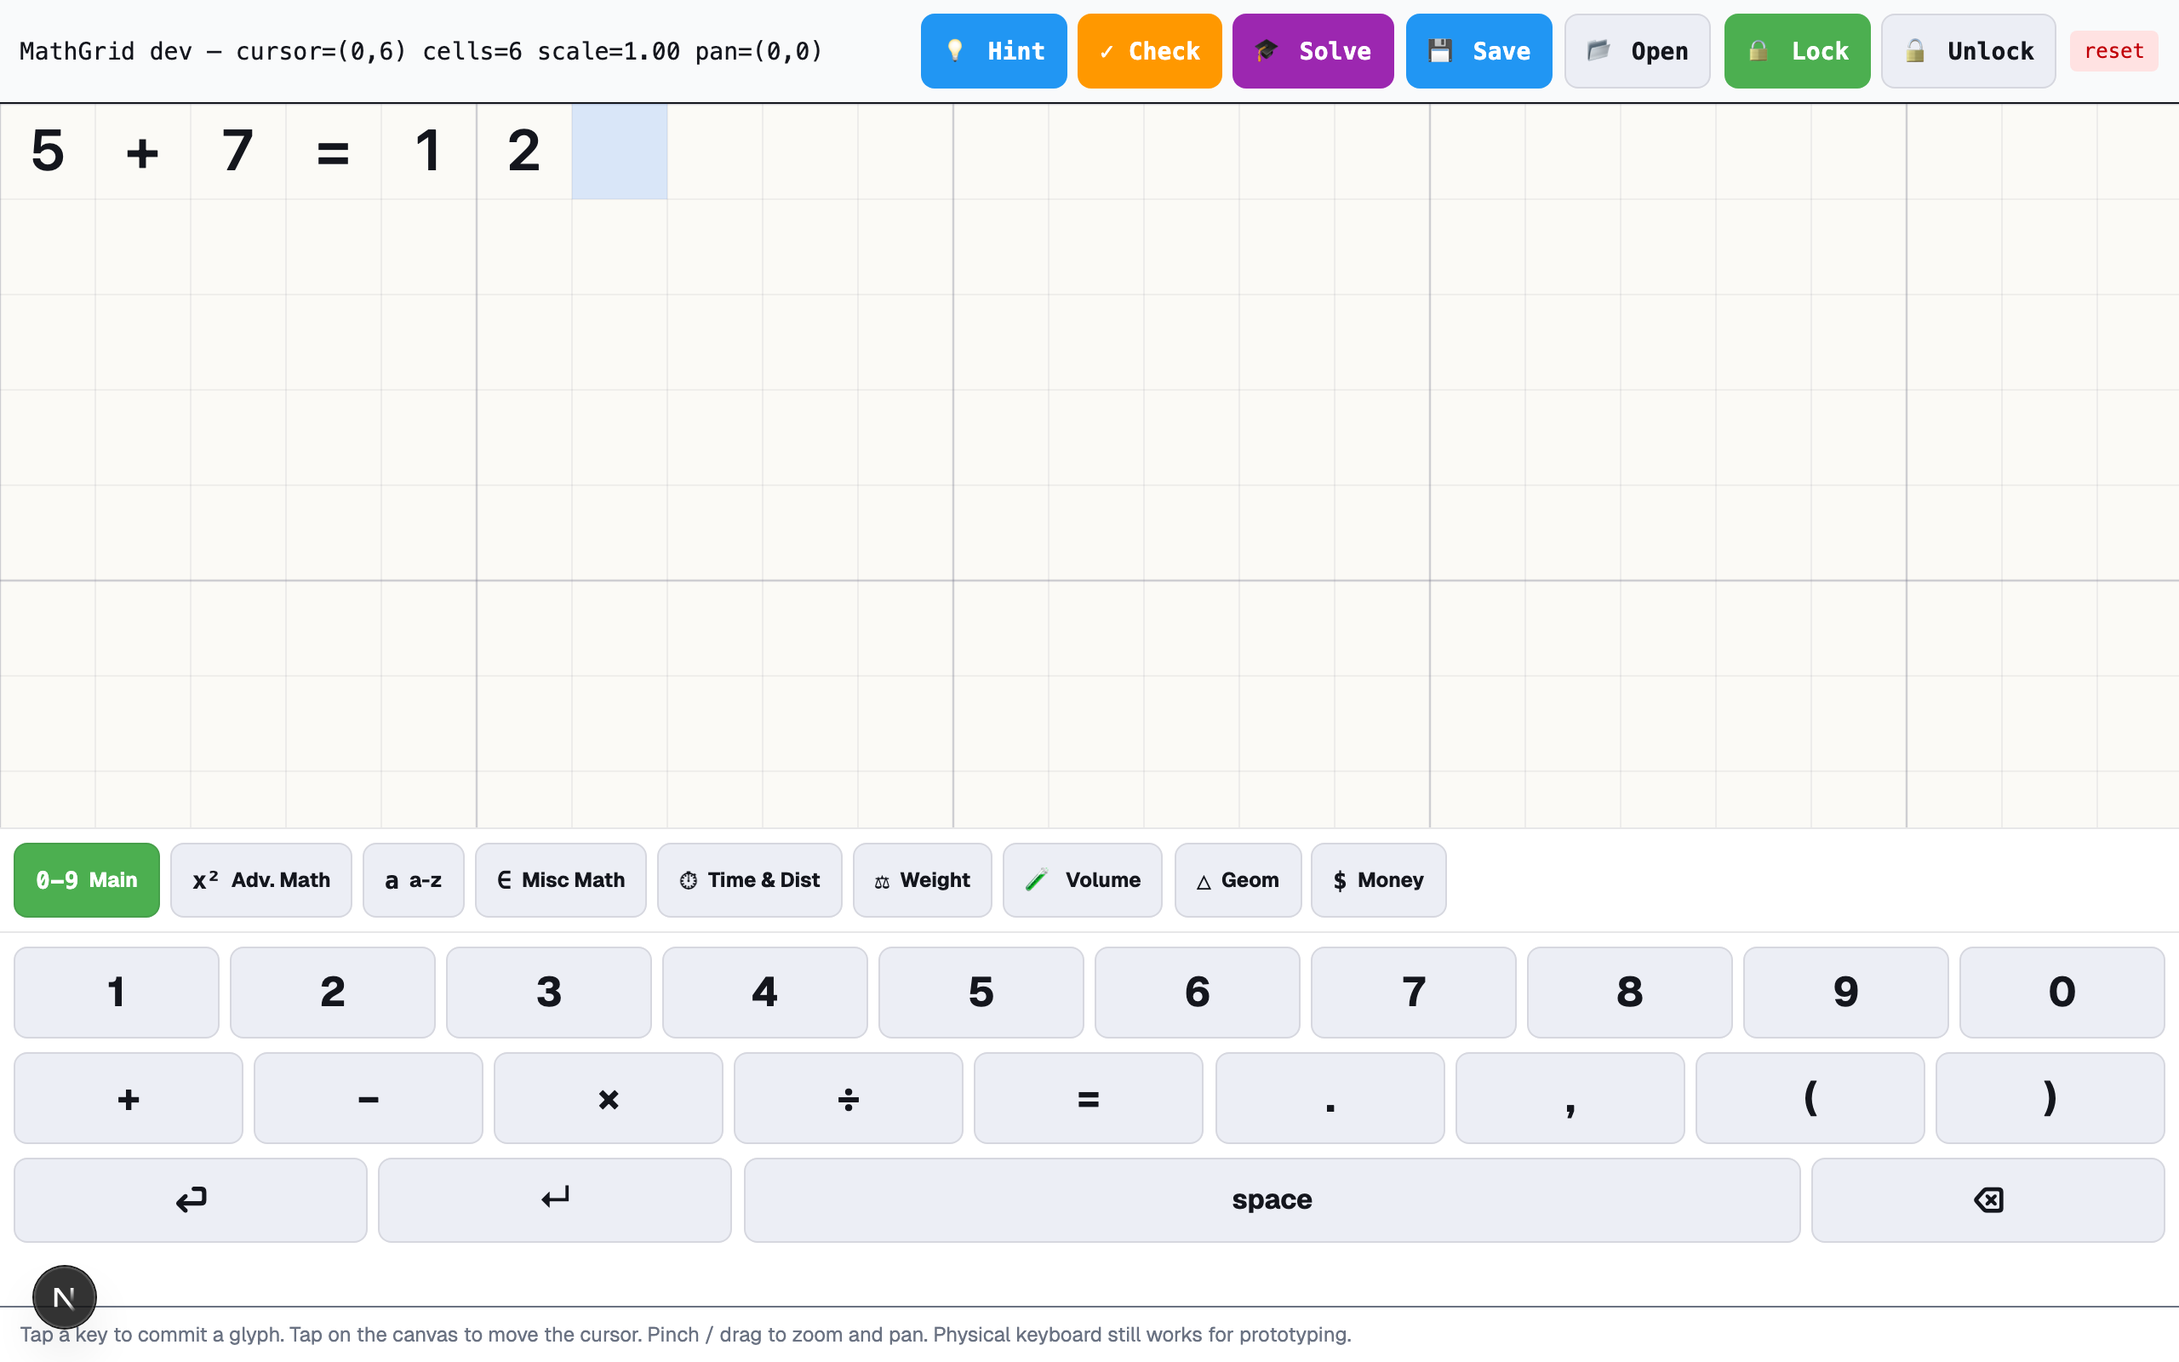
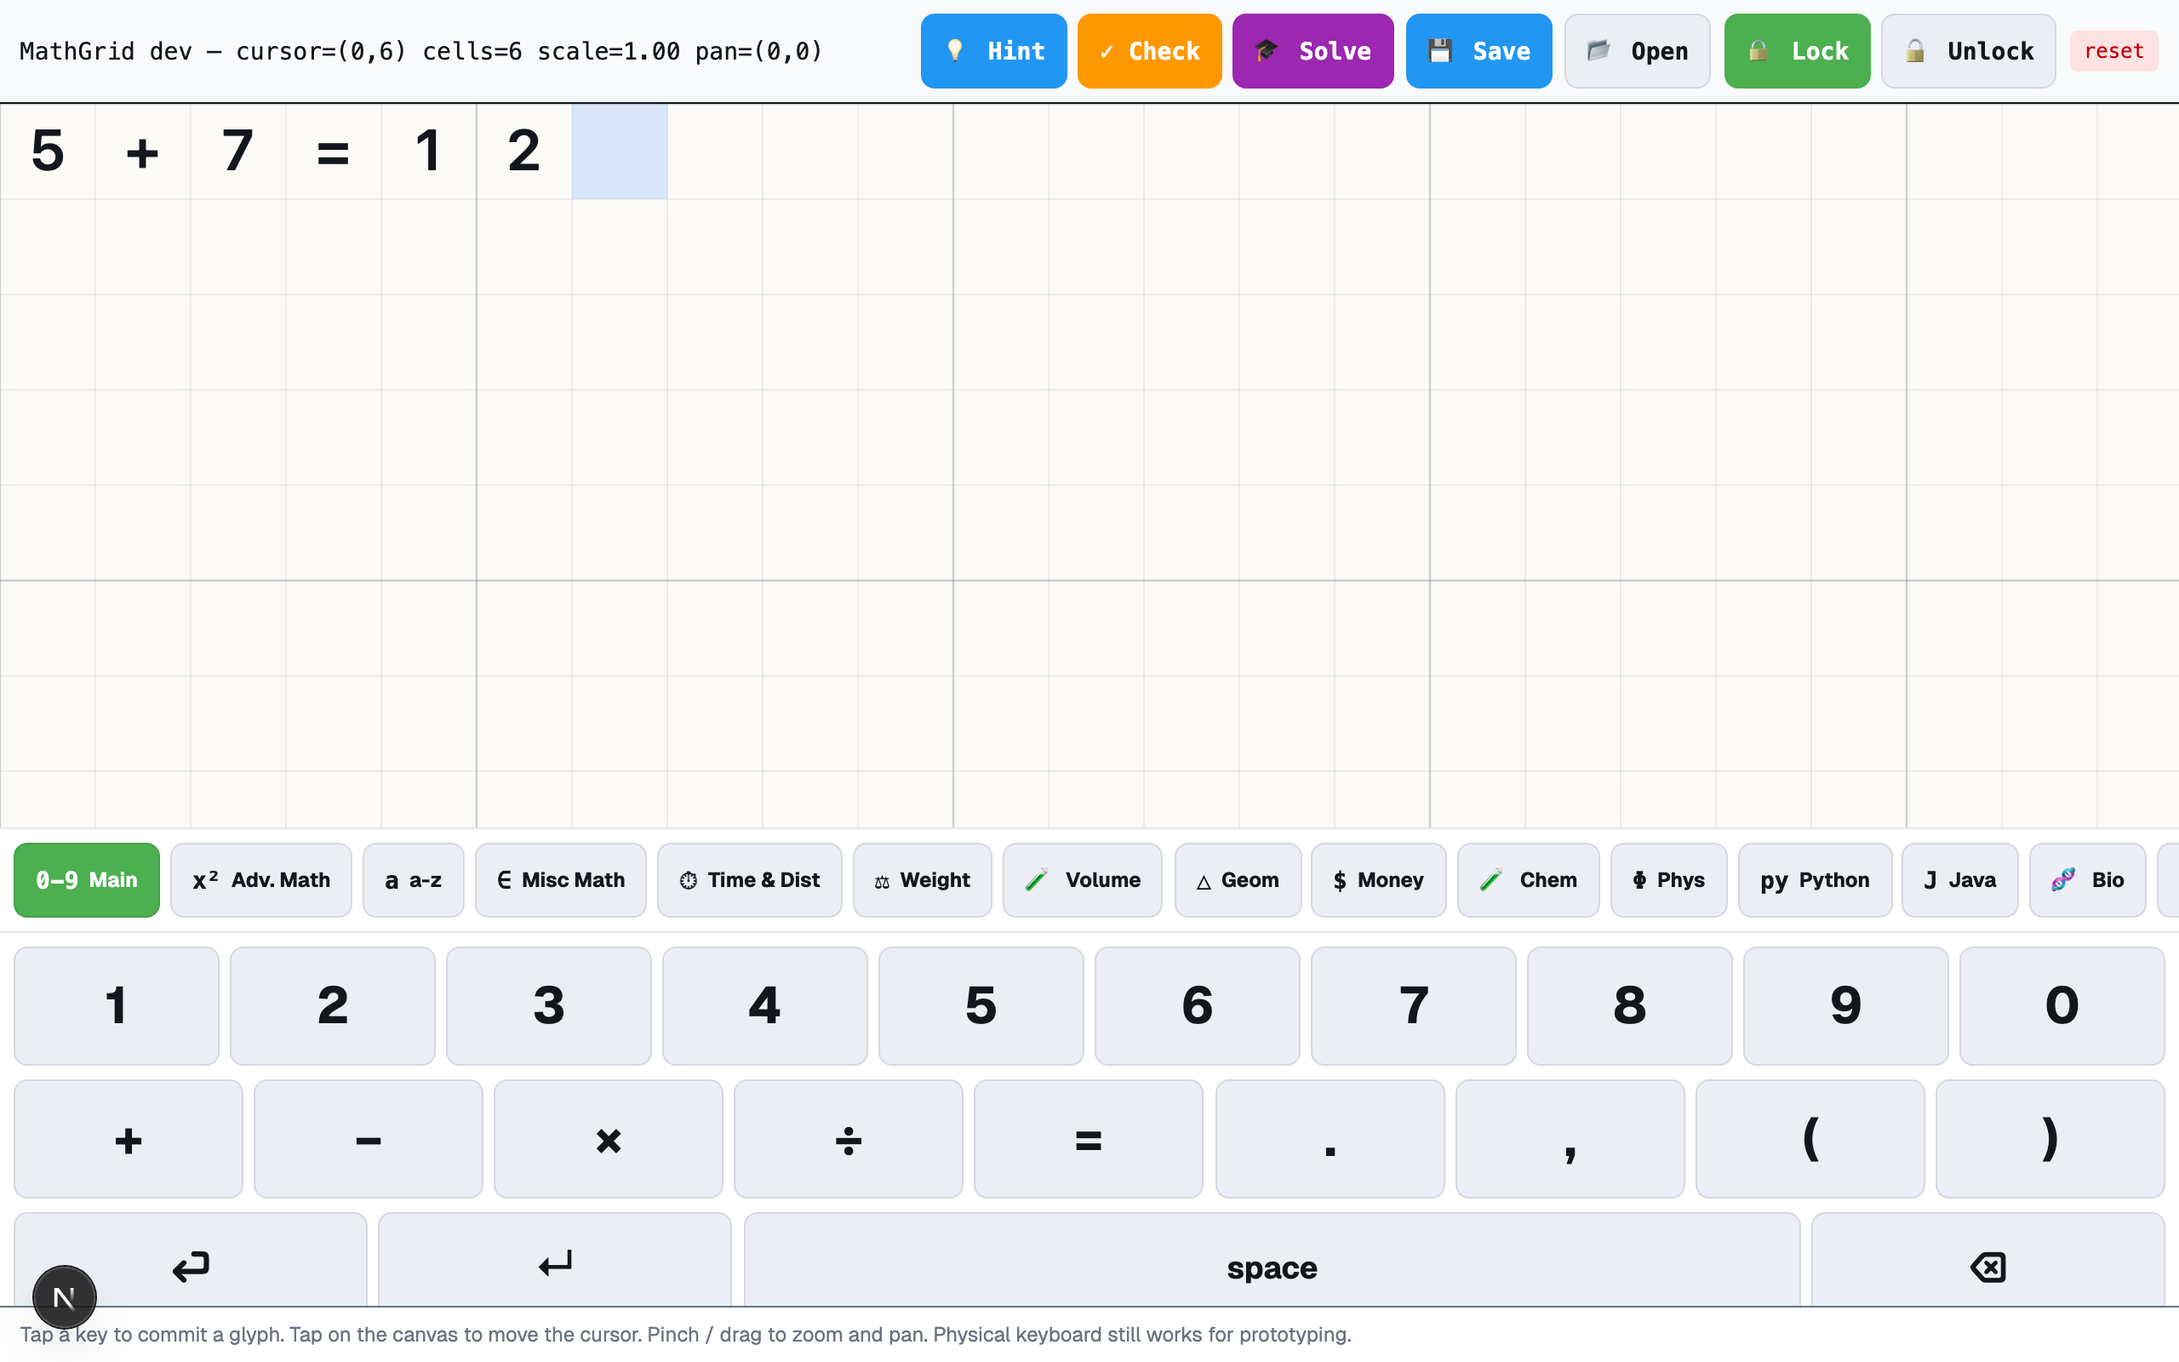
release: v0.9.0 — full high-school curriculum + locale-aware history
Bundles Phases 6 / 7 / 8 + the locale + region work into a single
release. 19 keyboard tabs, 11 tutor domains (33 prompt templates),
230+ sub-national history regions across 23 countries, plus the
tutor hardening + grid-text fixes shipped along the way.

- README — Math module section rewritten to document the full
  curriculum + locale + region layering, with 12 new screenshots
  (Chemistry, Physics, Biology, Statistics, Music, Earth Science,
  Java, Python, History en / US-TX / ro, Language Arts).
- CHANGELOG — full 0.9.0 entry covering Phases 6-8, the regional
  history layer, and the bug fixes that landed alongside (tutor
  hang, multi-char glyph overflow, EN prediction leak, AAC chrome
  in math mode, toolbar trim, bigger keys).
- package.json bumped 0.8.0 → 0.9.0.
- scripts/capture-math-docs.mjs extended with 12 new captures.

All tests retained per user request: 142/142 math e2e + 2172
vitest pass / 0 fail; typecheck clean.

diff --git a/README.md b/README.md
@@ -22,8 +22,8 @@ Tap PECS-style picture tiles to build sentences. The app reads them aloud in you
 ### ⌨ Type, predict, speak
 Built-in keyboard with word prediction. Smart suggestions learn from how the child communicates over time.
 
-### 🧮 Math panel for school
-Graph-paper canvas where every glyph occupies its own cell — digits, operators, fractions, long-division houses, square roots, geometry symbols. Type with the on-screen math keyboard or use the AI tutor for hints, answer checks, or step-by-step walkthroughs. Save your work; come back to it later. [See the math module →](#math-module-cell-grid-canvas)
+### 📚 Full high-school curriculum on a cell-grid canvas
+**Math + Chemistry + Physics + Biology + Statistics + Programming (Python/Java) + Music + Earth Science + History + Language Arts** — all on the same graph-paper canvas, each with a domain-aware AI tutor. History is locale-aware: a child in Romania sees Stephen the Great + 1989 Revolution, in Texas sees the Alamo + JFK, in Catalonia sees Crown of Aragon + 2017 Referendum. **230+ sub-national regions across 23 countries.** [See the math module →](#math-module-cell-grid-canvas)
 
 ### 🗓 Visual schedule
 Picture-based routines with rewards. Reduces transition anxiety for children with autism.
@@ -60,20 +60,53 @@ When a caregiver fixes a suggestion the model got wrong (e.g. "no, the word is *
 
 Math in AAC has historically meant either typing LaTeX — impossible for non-readers — or drawing on a freeform whiteboard that no AI can interpret. PrismAAC takes a third path: a **cell-grid model** where every glyph occupies one snap-aligned cell. The child types on a soft keyboard, the cursor advances predictively (column-add carry rules, fraction numerator → denominator, long-division quotient, exponent), and the on-screen layout is automatically structured enough for an AI tutor to read back.
 
+The same canvas hosts **19 subject keyboards** covering the full high-school program: math + sciences + programming + arts + humanities. Each tab routes the AI tutor through a domain-specific prompt template (33 templates total) so the model doesn't apply algebraic reasoning to a Punnett square or mistake a music dynamic for a programming literal.
+
 ### Canvas + main keyboard
 ![Cell-grid canvas with 5 + 7 = 12 typed across cells](docs/screenshots/math-canvas-typed.png)
 
 The HUD shows live cursor position, cell count, and viewport state. Each digit/operator lands in its own cell — the cursor (highlighted blue) automatically moves to the next slot. Pinch-zoom and one-finger pan work on the canvas; the keyboard region is a fixed-height shell below.
 
-### Nine keyboard categories
+### 19 keyboard categories
+Tap a chip to swap the row below. Categories:
+
+**Math (9 keyboards)** — Main (digits + operators), Adv. Math (π √ exponents + 5 decoration tools: fraction box, long-division house, root bar, summation line, fraction bar), a–z, Misc Math (set theory + logic), Time & Dist, Weight, Volume, Geom, Money.
+
+**Sciences (4)** — Chemistry (24 elements + reaction arrows + charges + subscripts + phase markers), Physics (full Greek + 16 SI units + ∫/∂/∇/∑/∏ + constants), Biology (DNA/RNA + genetics + 8 taxonomy ranks + 12 organelles), Statistics (μ σ x̄ + 12 ops + distributions).
+
+**Programming (2)** — Python (24 ops/brackets + 26 keywords) and Java (24 ops + 26 keywords). Code commits one character per cell so it lays out naturally on the monospace grid.
+
+**Arts + Humanities (4)** — Music (3 clefs + 6 notes + 5 rests + 5 accidentals + 8 dynamics), Earth Science (weather + plates + 10 planets + AU/ly/pc/Mya/Gya), History (locale + region aware), Language Arts (12 POS tags + 6 sentence types + punctuation + citation styles).
+
 ![Advanced math keyboard with fraction-bar, long-division, root, summation tools](docs/screenshots/math-keyboard-adv.png)
 
-Tap a chip to swap the row below. Categories: **Main** (digits + operators), **Adv. Math** (inequalities, π, √, exponents, plus 5 decoration tools — fraction box, long-division house, root bar, summation line, fraction bar), **a–z** (letters), **Misc Math** (set theory, logic), **Time & Dist**, **Weight**, **Volume**, **Geom**, **Money**.
-
-### AI tutor — Hint / Check / Solve
+### AI tutor — Hint / Check / Solve, domain-aware
 ![AI tutor overlay showing a mocked hint above the canvas](docs/screenshots/math-tutor-hint.png)
 
-Three modes: 💡 **Hint** (gentle next-step nudge, never solves), ✓ **Check** (validates the child's answer, celebrates if correct), 🎓 **Solve** (full step-by-step walkthrough, max 4 steps). The expression is serialised row-major and sent to `askAI`, which routes through Synalux (paid models) or falls back to local Ollama for offline. Streamed responses render in a floating overlay; typing more cells auto-collapses the overlay so stale advice doesn't block the child.
+Three modes: 💡 **Hint** (gentle next-step nudge, never solves), ✓ **Check** (validates the child's answer, celebrates if correct), 🎓 **Solve** (full step-by-step walkthrough, max 4 steps). The active tab tells the tutor what subject the child is on — chemistry, Python, biology, statistics, history (with locale + region!) — so the prompt is specific enough that the model doesn't confuse domains. 11 domains × 3 modes = 33 prompt templates. The expression is serialised row-major and sent to `askAI`, which routes through Synalux. Hard 15 s timeout in the UI plus a Retry button so the overlay never gets stuck on "Thinking…".
+
+### Sciences — Chemistry · Physics · Biology · Statistics
+![Chemistry keyboard with H₂O typed across cells](docs/screenshots/math-keyboard-chemistry.png)
+![Biology keyboard with A T G nucleotides typed](docs/screenshots/math-keyboard-biology.png)
+
+### Programming — Python + Java
+![Java keyboard with `private String` typed character-per-cell](docs/screenshots/math-keyboard-java.png)
+
+### Music notation
+![Music keyboard with treble clef + quarter + eighth notes typed](docs/screenshots/math-keyboard-music.png)
+
+### History — locale-aware + region-aware
+History is more nuanced than a single global event list — every curriculum is national first, then regional. PrismAAC layers three tiers:
+
+1. **Universal** events taught in every curriculum (476 fall of Rome, 1914 WWI, 1939 WWII, 1969 moon landing).
+2. **National** events selected by `language` (en → Norman Conquest + Magna Carta + US Independence; ro → Stephen the Great + 1989 Revolution; hi → Mauryan + Mughal + 1947; ja → Heian + Edo + Meiji; zh → Tang/Ming/Qing + 1949). 19 supported languages.
+3. **Sub-national** events selected by `historyRegion` (US-TX → Alamo + JFK; CA-QC → Plains of Abraham + Quiet Revolution; UK-SCT → Bannockburn + Acts of Union; ES-CT → Crown of Aragon + 1714 + 2017 Referendum; IN-MH → Shivaji coronation; DE-BY → Wittelsbach). **230+ regions across 23 countries** including all 50 US states, 13 Canadian provinces/territories, all 4 UK nations, Ireland (Republic + 4 historical provinces), all 16 German Länder, all 17 Spanish autonomous communities, all 20 Italian regions, plus AU, FR, MX, BR, IN, CN, RU, BE, CH, NL, AR, ZA, KR, PK, NZ, PL.
+
+The tutor prompt carries the locale + region so an ambiguous date like 1836 in `US-TX` resolves to the Alamo (not Alabama statehood); 1759 in `CA-QC` anchors to the Plains of Abraham; 1714 in `ES-CT` to the fall of Barcelona.
+
+![History keyboard in en locale (no region) — universal + national tiers](docs/screenshots/math-keyboard-history-en.png)
+![History keyboard with US-TX region — Alamo, Texas annexation, JFK appear on top of national + universal](docs/screenshots/math-keyboard-history-us-tx.png)
+![History keyboard in ro locale — Romanian curriculum surfaces Stephen the Great + 1989 Revolution](docs/screenshots/math-keyboard-history-ro.png)
 
 ### Save / Open with portal sync
 ![Saved docs overlay showing one entry and a Sync button](docs/screenshots/math-docs-overlay.png)

diff --git a/CHANGELOG.md b/CHANGELOG.md
@@ -1,5 +1,127 @@
 # PrismAAC Changelog
 
+## [0.9.0] - 2026-05-07 — Full high-school curriculum + locale-aware history (Phases 6 → 8)
+
+The math module is now a full high-school program: **19 keyboard tabs**
+covering math + sciences + programming + arts + humanities, with a
+domain-aware AI tutor (33 prompt templates) that knows what subject
+the child is on. History is locale + region aware down to the state /
+province / Land / autonomous-community level.
+
+### Phase 6 — universal-engine subjects
+- **Chemistry** — 24 element symbols, reaction arrows (→ ⇌ ↑ ↓), charges
+  (⁺ ⁻ ²⁺ ²⁻), subscripts (₂ ₃ ₄), Δ, pH, mol, phase markers.
+- **Physics** — full Greek alphabet (lower + upper), 16 SI units,
+  ∫ ∂ ∇ ∑ ∏ + dot/cross products, vectors, constants (c, h, ℏ, G).
+- **Programming — Python + Java** as separate tabs sharing one
+  component. 24 ops/brackets per language; Python keywords (def,
+  class, if, else, elif, for, while, return, import, from, as, in,
+  is, not, and, or, True, False, None, lambda, with, try, except,
+  finally, print, len, range, self) and Java keywords (public,
+  private, protected, class, void, int, String, boolean, if, else,
+  for, while, return, new, this, null, true, false, import, static,
+  final, package, try, catch, throws, extends, implements, interface).
+  Code commits one character per cell so it lays out naturally on
+  the monospace grid (fixes the visual collision when long keywords
+  stuffed into a single 56 px slot).
+- **Domain-aware tutor** — 5 → 9 domains, each with Hint / Check /
+  Solve prompt templates that prepend a domain framing so the model
+  doesn't confuse subjects.
+
+### Phase 7 — full sciences + arts coverage
+- **Biology** — DNA/RNA bases (A T G C U), codon arrows, mRNA/tRNA/
+  rRNA, genetics shorthand (AA / Aa / aa, F1 / F2, ♂ ♀, × cross),
+  Linnaean taxonomy ranks (Domain → Species, 8 levels), 12 cell
+  organelles. Punnett squares draw via the existing lock tool.
+- **Statistics** — Greek population params (μ σ σ² ρ) + sample stats
+  (x̄ s s² r p̂ n N), operators (Σ ∏ P( E[ Var[ SE CI H0 Ha ! C( P()),
+  distributions (𝒩 z t χ² F df α β p-value ∼ ≈ ≠).
+- **Music** — 3 clefs (𝄞 𝄢 𝄡), 6 note durations, 5 rests, 5
+  accidentals (♯ ♭ ♮ + double sharp/flat), 8 dynamics (pp through
+  ff + cresc./dim.). Time signatures via the fraction-box tool.
+- **Earth Science** — 10 weather glyphs, plate-tectonics arrows
+  (→ ← ↑ ↓ ⇄ ⊕ ⊖), full astronomy set (☉ ☾ ⊕ ☿ ♀ ♂ ♃ ♄ ♅ ♆),
+  geologic-time + distance units (AU, ly, pc, Mya, Gya, mb, °C/°F).
+
+### Phase 8 — humanities + locale awareness
+- **Language Arts** — 12 parts-of-speech tags, 6 sentence-type
+  markers, punctuation row, citation labels (MLA, APA, Chicago).
+- **History — locale aware**, driven by `useSettingsStore.language`.
+  Universal core (476, 1453, 1914–1918, 1939–1945, 1969) plus
+  per-language slices for 19 supported languages. Examples:
+  ro → Stephen the Great, Union of Principalities, 1989 Revolution;
+  zh → Tang/Ming/Qing dynasties + 1949 PRC; hi → Mauryan, Mughal,
+  Sepoy 1857, 1947 Independence; ja → Heian, Edo, Meiji 1868; ar →
+  Hijra, Abbasid, Ottoman dissolution.
+- **History — region aware**, driven by new `historyRegion` setting.
+  **230+ sub-national regions across 23 countries**:
+    🇺🇸 US (50 states + DC), 🇨🇦 CA (10 provinces + 3 territories),
+    🇬🇧 UK (4 nations), 🇮🇪 IE (Republic + 4 historical provinces),
+    🇦🇺 AU (8), 🇩🇪 DE (16 Länder), 🇫🇷 FR (13 regions),
+    🇪🇸 ES (17 communities), 🇮🇹 IT (20 regions), 🇲🇽 MX (12),
+    🇧🇷 BR (12), 🇮🇳 IN (15), 🇨🇳 CN (17 incl. autonomous regions),
+    🇷🇺 RU (10 federal subjects), plus BE, CH, NL, AR, ZA, KR, PK,
+    NZ, PL slices.
+  The History keyboard layers WORLD ∪ NATIONAL ∪ REGIONAL when a
+  region is set; the tutor prompt carries both `{lang}` + `{region}`
+  so 1836 in US-TX resolves to the Alamo (not Alabama statehood);
+  1759 in CA-QC anchors to Plains of Abraham; 1714 in ES-CT to the
+  fall of Barcelona; 1066 in UK-ENG to the Norman Conquest while
+  UK-SCT shows Bannockburn 1314 + Acts of Union 1707 instead.
+
+### Bug fixes shipping with 0.9.0
+- **Tutor "Thinking…" hang** — hard 15 s tutor-side timeout via
+  Promise.race so the overlay can no longer hang while askAI's
+  chained timeouts (Synalux + local Ollama fallback) burn ~40 s.
+  Friendly error mapping (auth / network / timeout / other) plus a
+  Retry button. Live curl confirmed PROD CORS preflight was missing
+  Access-Control-Allow-Origin for prism-aac.vercel.app — fixed in
+  the synalux-private middleware (separate repo).
+- **Multi-char glyphs overflowing cells** — SVG `<text>` nodes now
+  set `textLength` + `lengthAdjust='spacingAndGlyphs'` for any
+  glyph > 1 char so chemistry "(aq)", physics "eV", earth-sci
+  "Mya", music "cresc.", stats "p-value" compress to fit one cell
+  width without bleeding into neighbours.
+- **Prediction bar — RO `eu` leaking into EN mode** — dropped the
+  `if (language === 'en') return displayed;` early-return in
+  `dropForeignTiles` so the cross-corpus comparison runs for every
+  language symmetrically.
+- **AAC chrome eating math viewport** — GreetingBanner / MessageBar
+  / PredictionBar / CategoryPanel now hide while the math panel is
+  open. Math board claims ≥ 75 % of viewport.
+- **Toolbar trim** — minimal default (mic + aac_chat + alert +
+  categories + settings); other built-ins opt-in via Settings.
+- **Bigger math keys** — main keyboard min-h 44 → 64 px, py-2.5 →
+  py-4, text-2xl → text-3xl. Easier targets for kids with motor
+  imprecision now that the math panel has room.
+
+### Tests (kept + extended)
+- Math e2e suite: **142 cases / 142 passing**, covering every
+  keyboard, the tutor in 11 domains (with mocked askAI prompt
+  assertions), two-hit magnify, dwell, doc save/open + portal sync,
+  lock tool, chrome-hidden, locale switches, regional swaps, and
+  per-region tutor prompt signal.
+- vitest: **2172 passing**, including new `prediction-bar-en-leak`
+  cross-corpus regression and existing `dwell-button` two-hit state
+  machine, `math-doc-service` portal sync, etc.
+- Per-tab integration tests:
+  - `math-domain-tutor.spec.ts` (12 cases) — chem / phys / py / java
+  - `math-phase7-tutor.spec.ts` (14) — bio / stats / music / earth
+  - `math-phase8-tutor.spec.ts` (10) — history / lang-arts + 10-domain
+    sweep
+  - `math-history-regions.spec.ts` (17) — US/CA/UK/IE/DE/ES/IN region
+    swap + tutor prompt region signal
+- typecheck clean
+
+### Docs
+- 12 new screenshots covering Chemistry, Physics, Biology, Statistics,
+  Music, Earth Science, Java code, Python tab, History (en / US-TX /
+  ro), Language Arts. Captured via `scripts/capture-math-docs.mjs`.
+- README rewrites the "Math module" section with the full curriculum
+  layout + locale + region docs.
+
+---
+
 ## [0.8.0] - 2026-05-07 — Math module rewrite (cell-grid canvas, Phases 1A → 5D)
 
 The whole math module was rebuilt from the ground up. The old LaTeX/KaTeX panel
